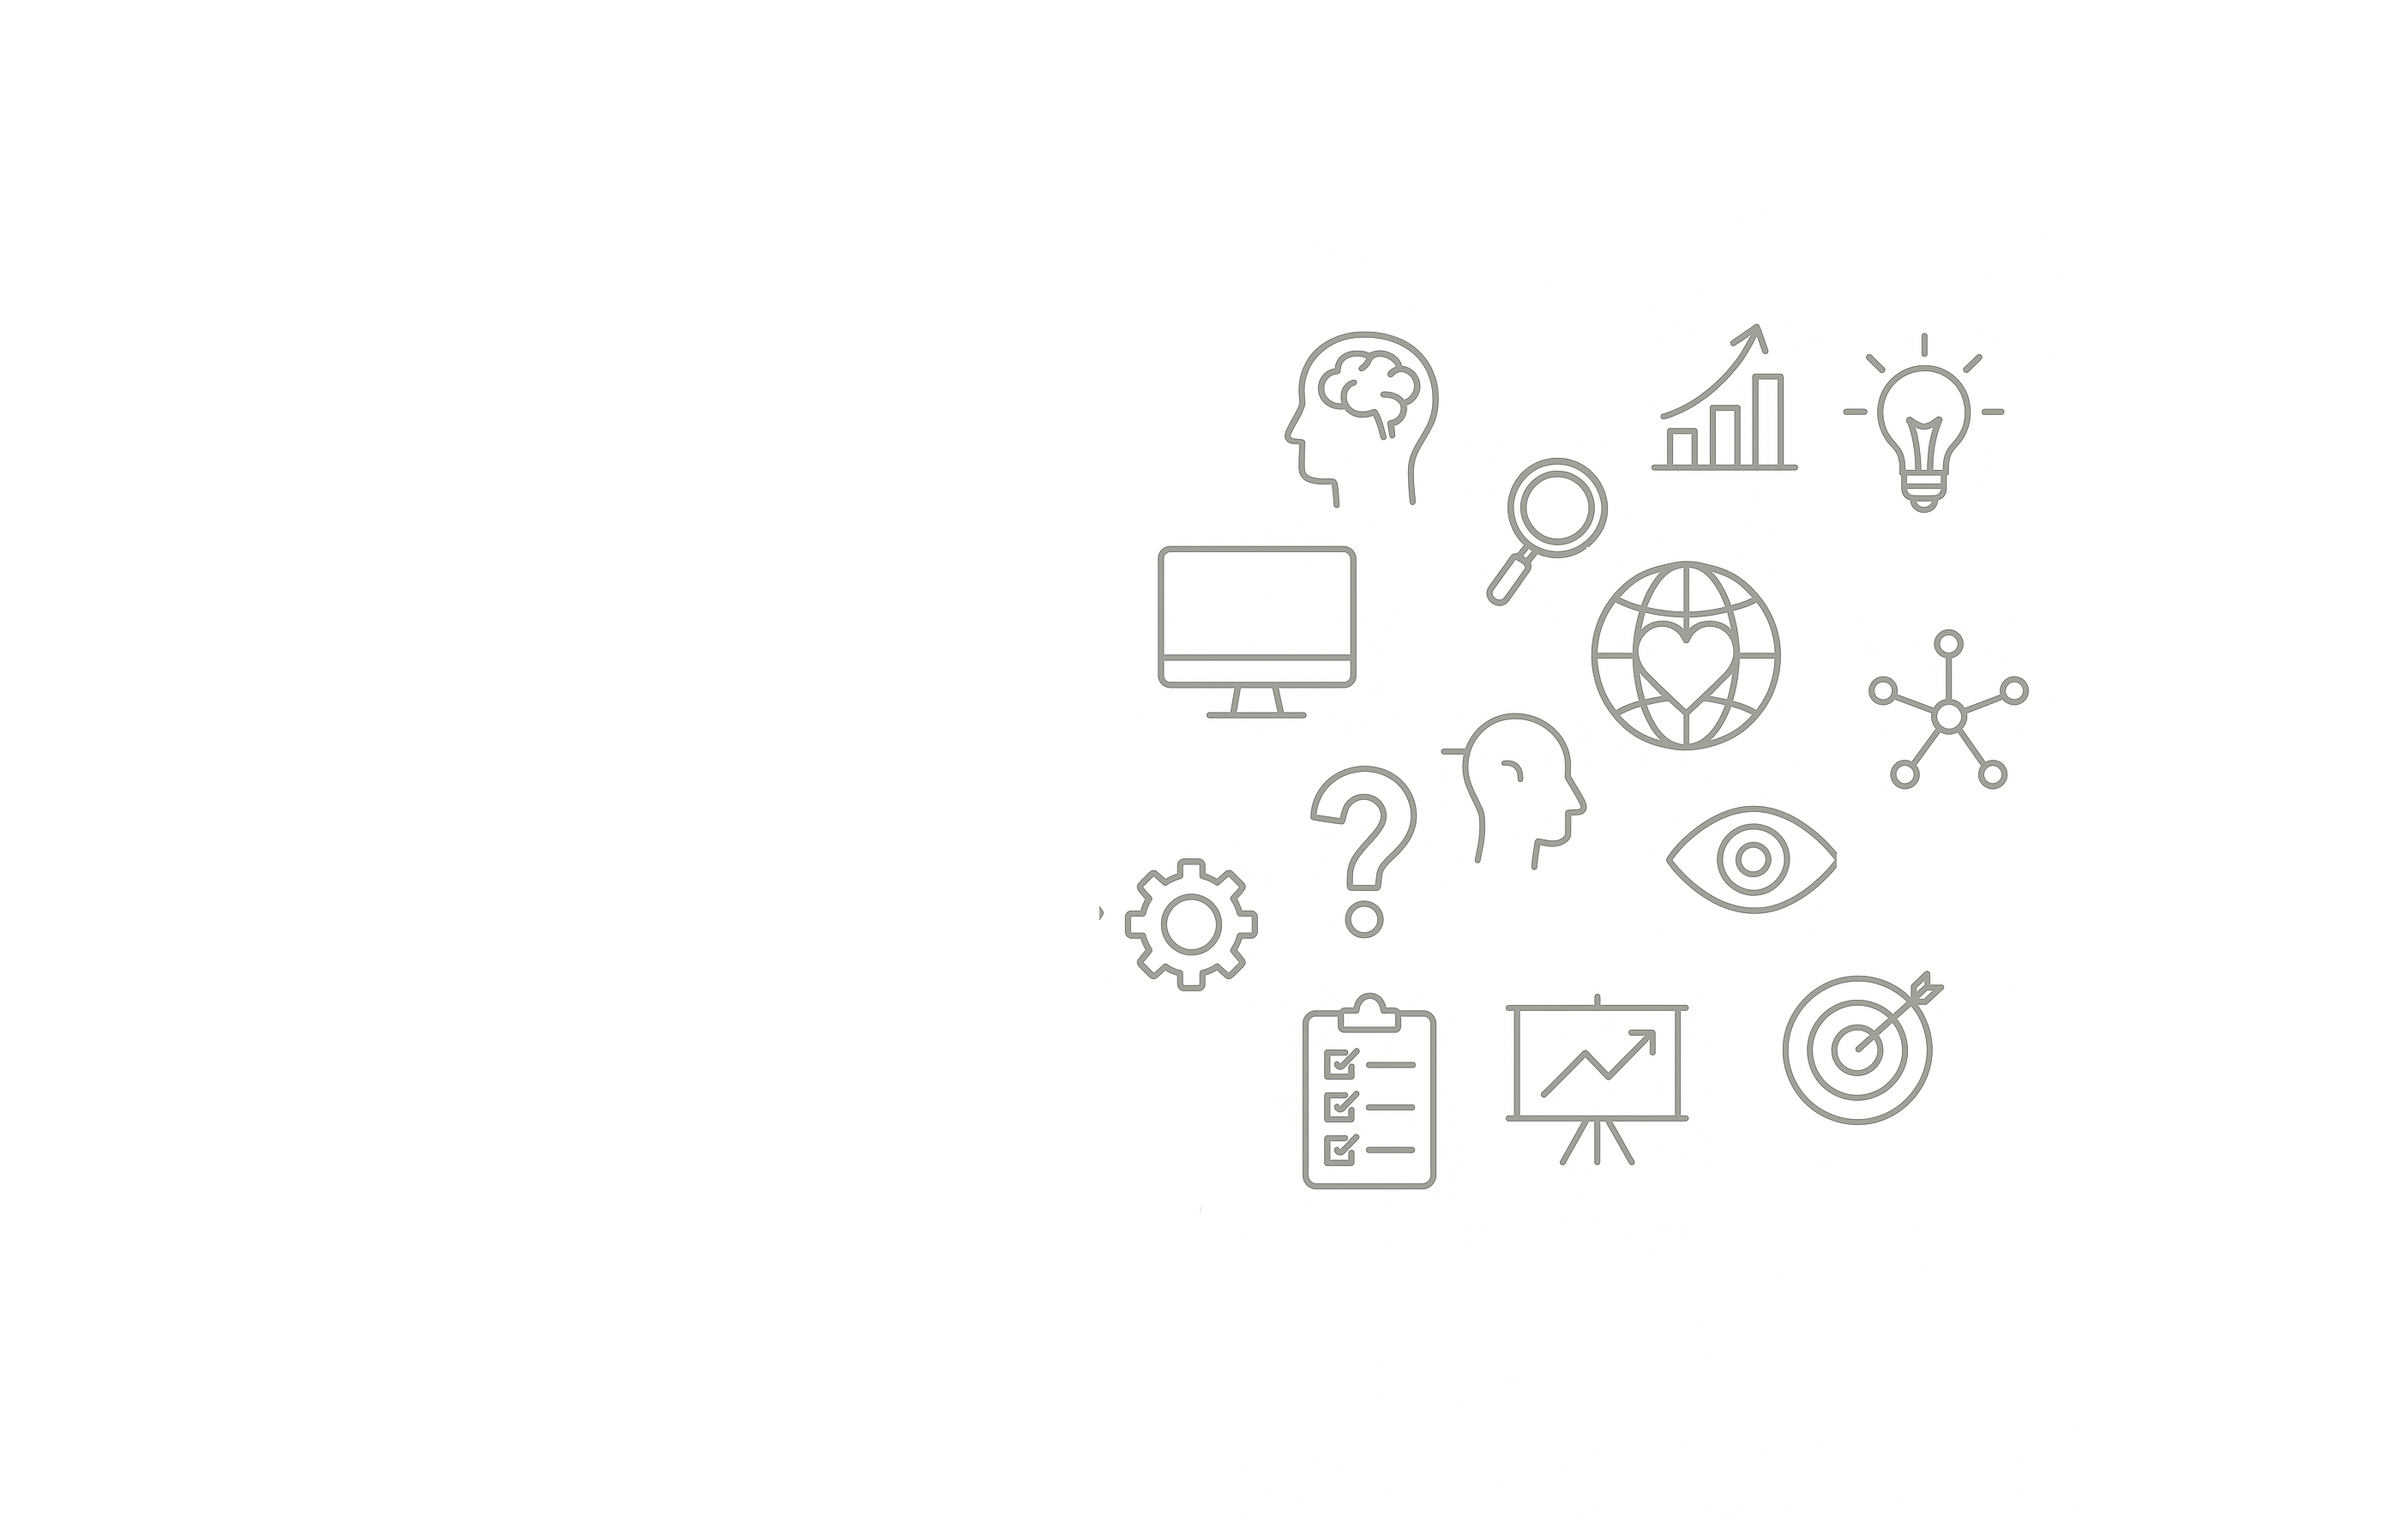
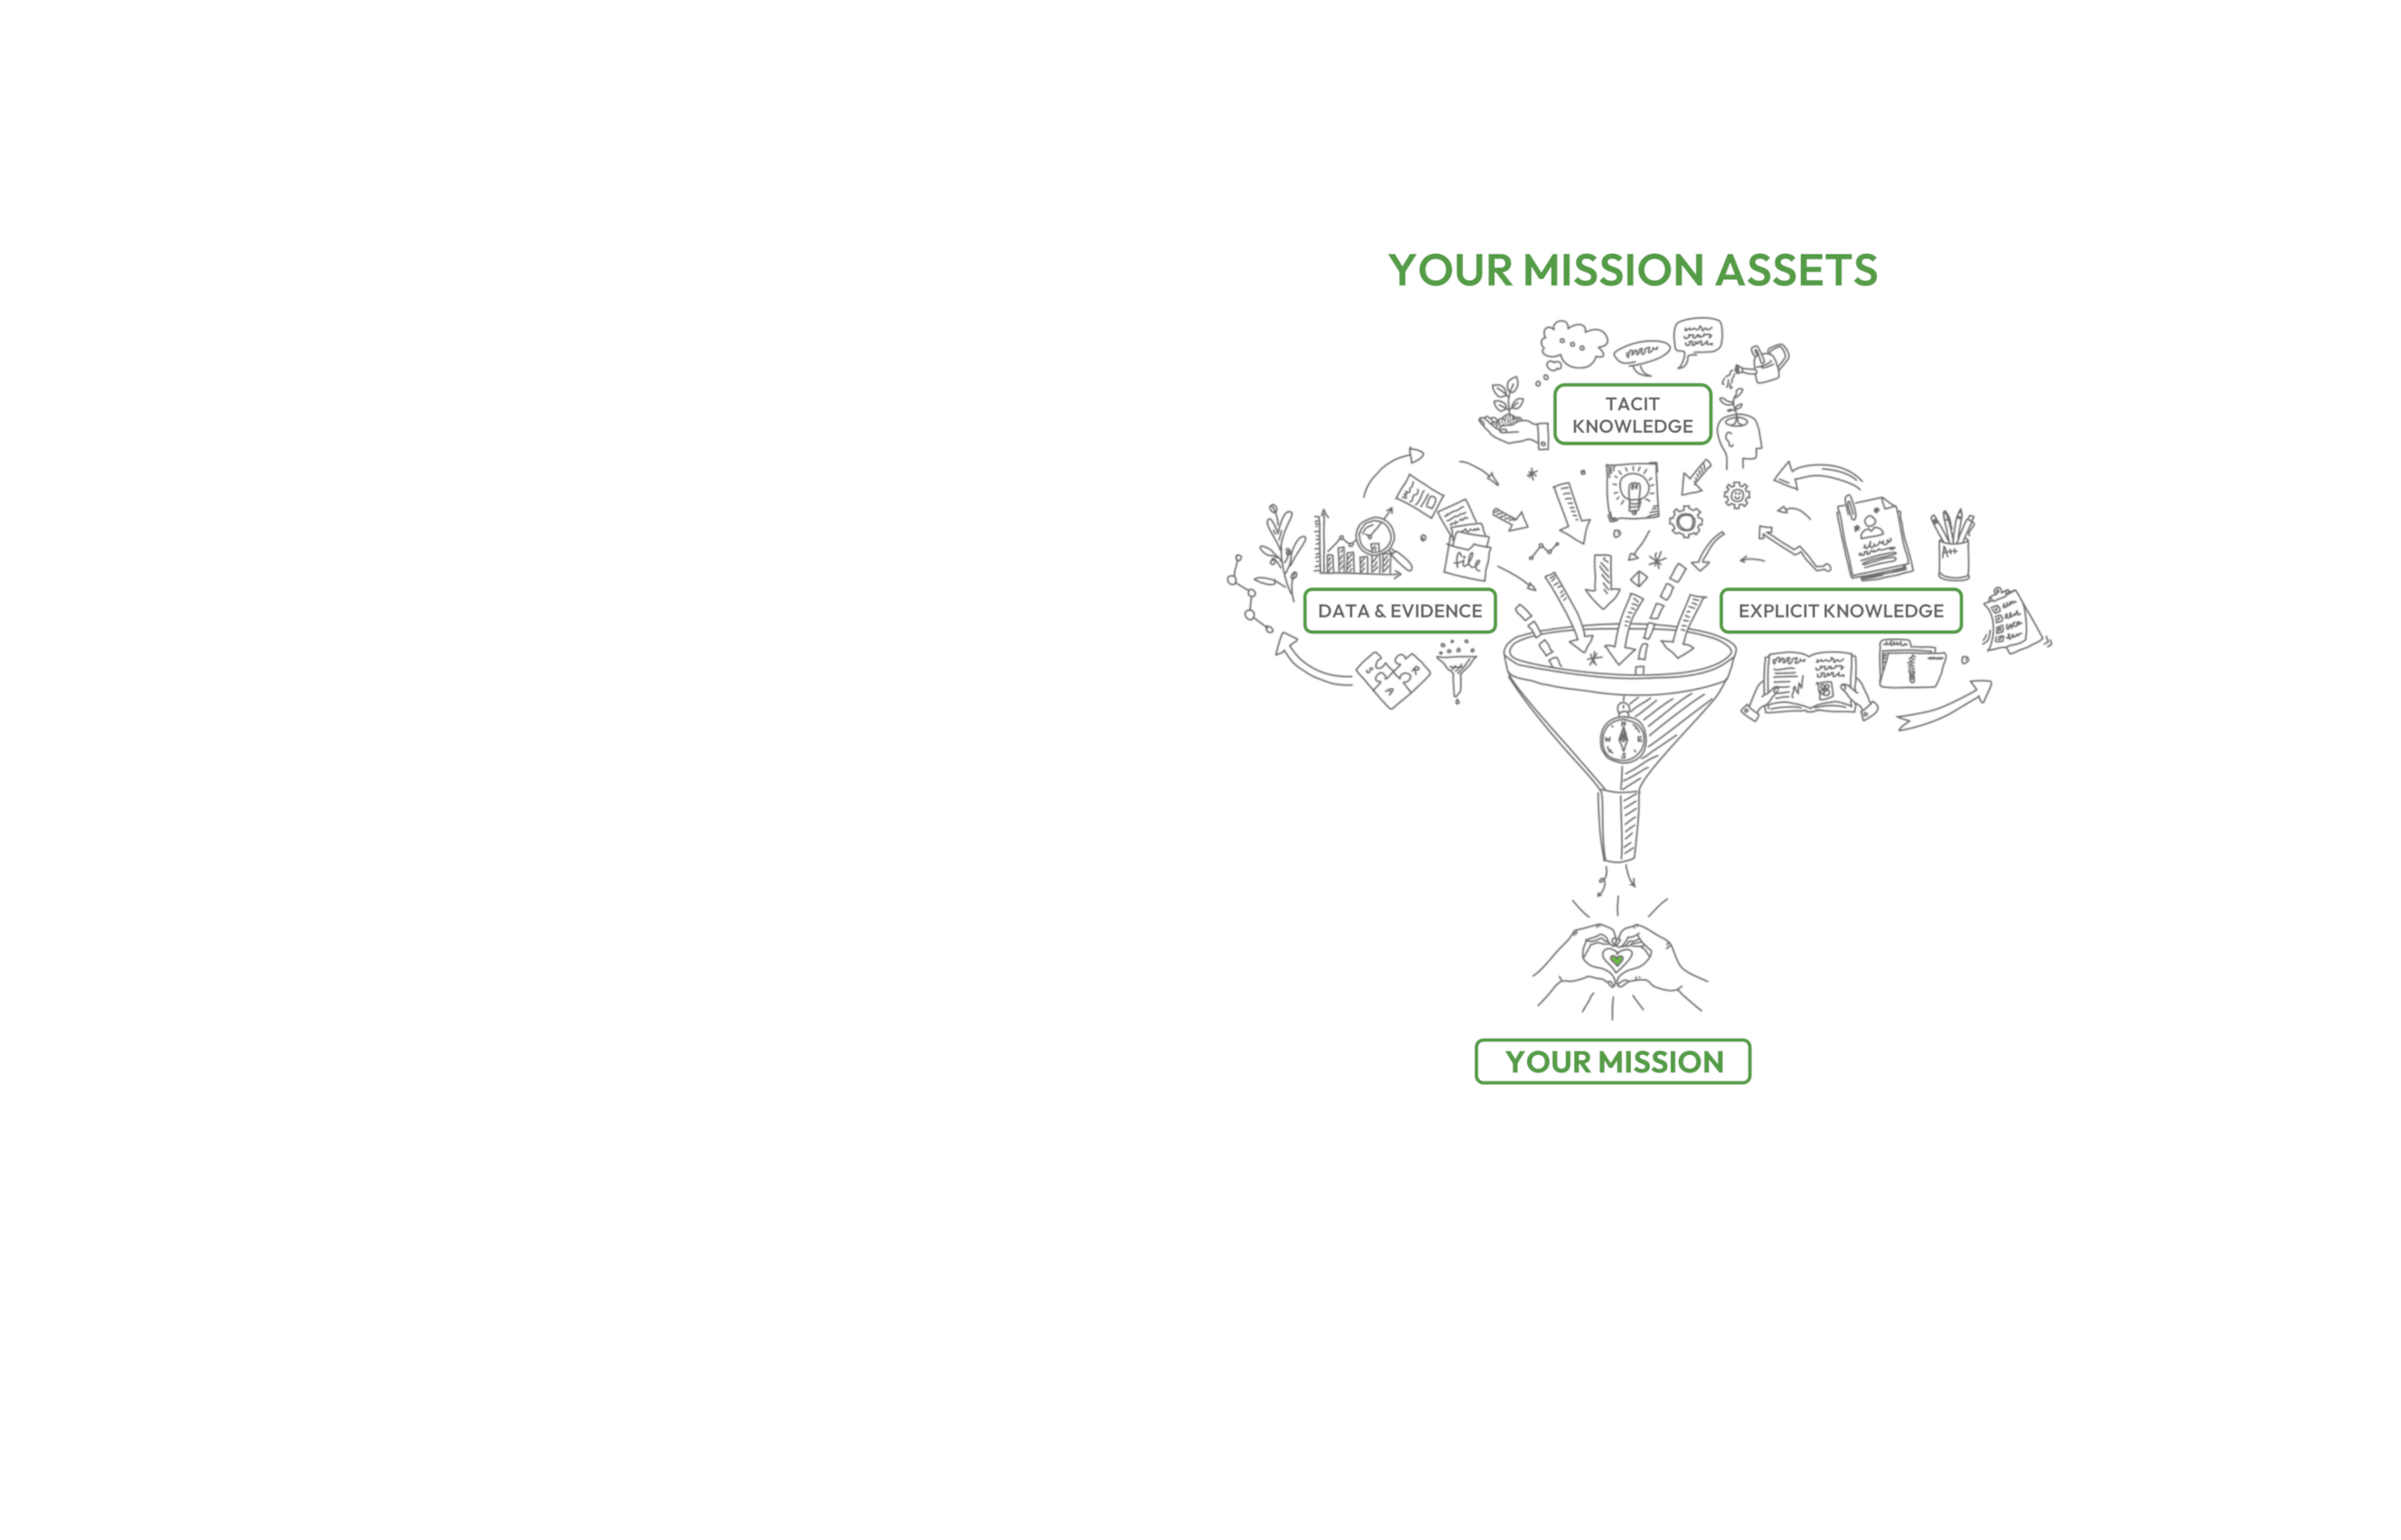
Added new images for Mission Assets.

diff --git a/index.html b/index.html
@@ -250,7 +250,7 @@
         <!--Action Weaver-->
         <section id="action-weaver" class="introduction scrollto">
             <div class="row no-padding-bottom clearfix">
-                <div class="col-1">
+                <div class="col-2-3 digital-tools-copy">
                     <div class="section-heading">
                         <h3>ENABLED BY ACTION WEAVER</h3>
                         <h2 class="section-title">Digital tools built around the work</h2>
@@ -260,6 +260,9 @@
                     <p>From interactive events and communities of practice to programme delivery, surveys, knowledge sharing and impact tracking, Action Weaver helps organisations build a living record of their work rather than leaving valuable knowledge scattered across spreadsheets, inboxes and individual teams.</p>
                     <p>The platform can be configured around each organisation's needs, helping teams strengthen their Mission Assets while keeping people, purpose, knowledge and data connected.</p>
                     <p><a href="#contact" class="enquiry-link"><strong>Explore the possibilities with us</strong><i class="fa-solid fa-chevron-right" aria-hidden="true"></i></a></p>
+                </div>
+                <div class="col-3 digital-tools-image">
+                    <img src="images/company-images/phone.png" alt="Action Weaver on a phone, showing Dashboard, Participants, Programme, Interaction and Resources" width="1068" height="1432" loading="lazy">
                 </div>
             </div>
         </section>

diff --git a/css/style.css b/css/style.css
@@ -2573,3 +2573,21 @@ a.enquiry-link:hover,
 a.enquiry-link:focus-visible {
     color: #333;
 }
+
+/* Digital Tools: two-thirds copy and one-third phone illustration. */
+#action-weaver .digital-tools-image img {
+    display: block;
+    width: 100%;
+    height: auto;
+    max-width: 360px;
+    margin: 0 auto;
+}
+@media (max-width: 767px) {
+    #action-weaver .digital-tools-copy,
+    #action-weaver .digital-tools-image {
+        width: 100%;
+    }
+    #action-weaver .digital-tools-image img {
+        max-width: 280px;
+    }
+}

diff --git a/css/namari-color.css b/css/namari-color.css
@@ -131,7 +131,7 @@ a:hover, #header.nav-solid nav a:hover {
 @media (min-width: 768px) {
     #banner {
         background: url("../images/banner-images/banner-image-1.jpg") no-repeat center top;
-        background-size: cover;
+        background-size: min(100%, 1440px) auto;
     }
 }
 
